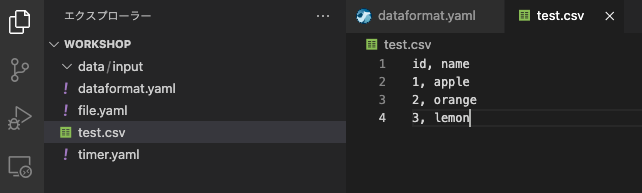
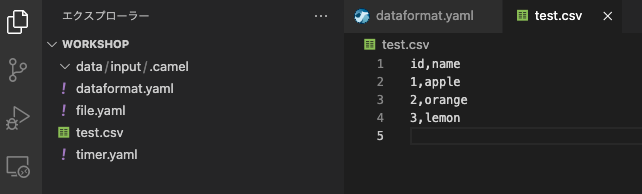
update

diff --git a/data-formats.md b/data-formats.md
@@ -43,10 +43,10 @@ Parameters は、以下を入力してください。
 ファイルの中身は、
 
 ```
-id, name
-1, apple
-2, orange
-3, lemon
+id,name
+1,apple
+2,orange
+3,lemon
 ```
 
 としてください。
@@ -75,3 +75,5 @@ Parameters は、以下のように設定をしてください。
 ![karavan]({% image_path 03-dataformat-005.png %}){:width="800px"}
 ![](images/03-dataformat-006.png)
 ![karavan]({% image_path 03-dataformat-006.png %}){:width="800px"}
+
+次に、
